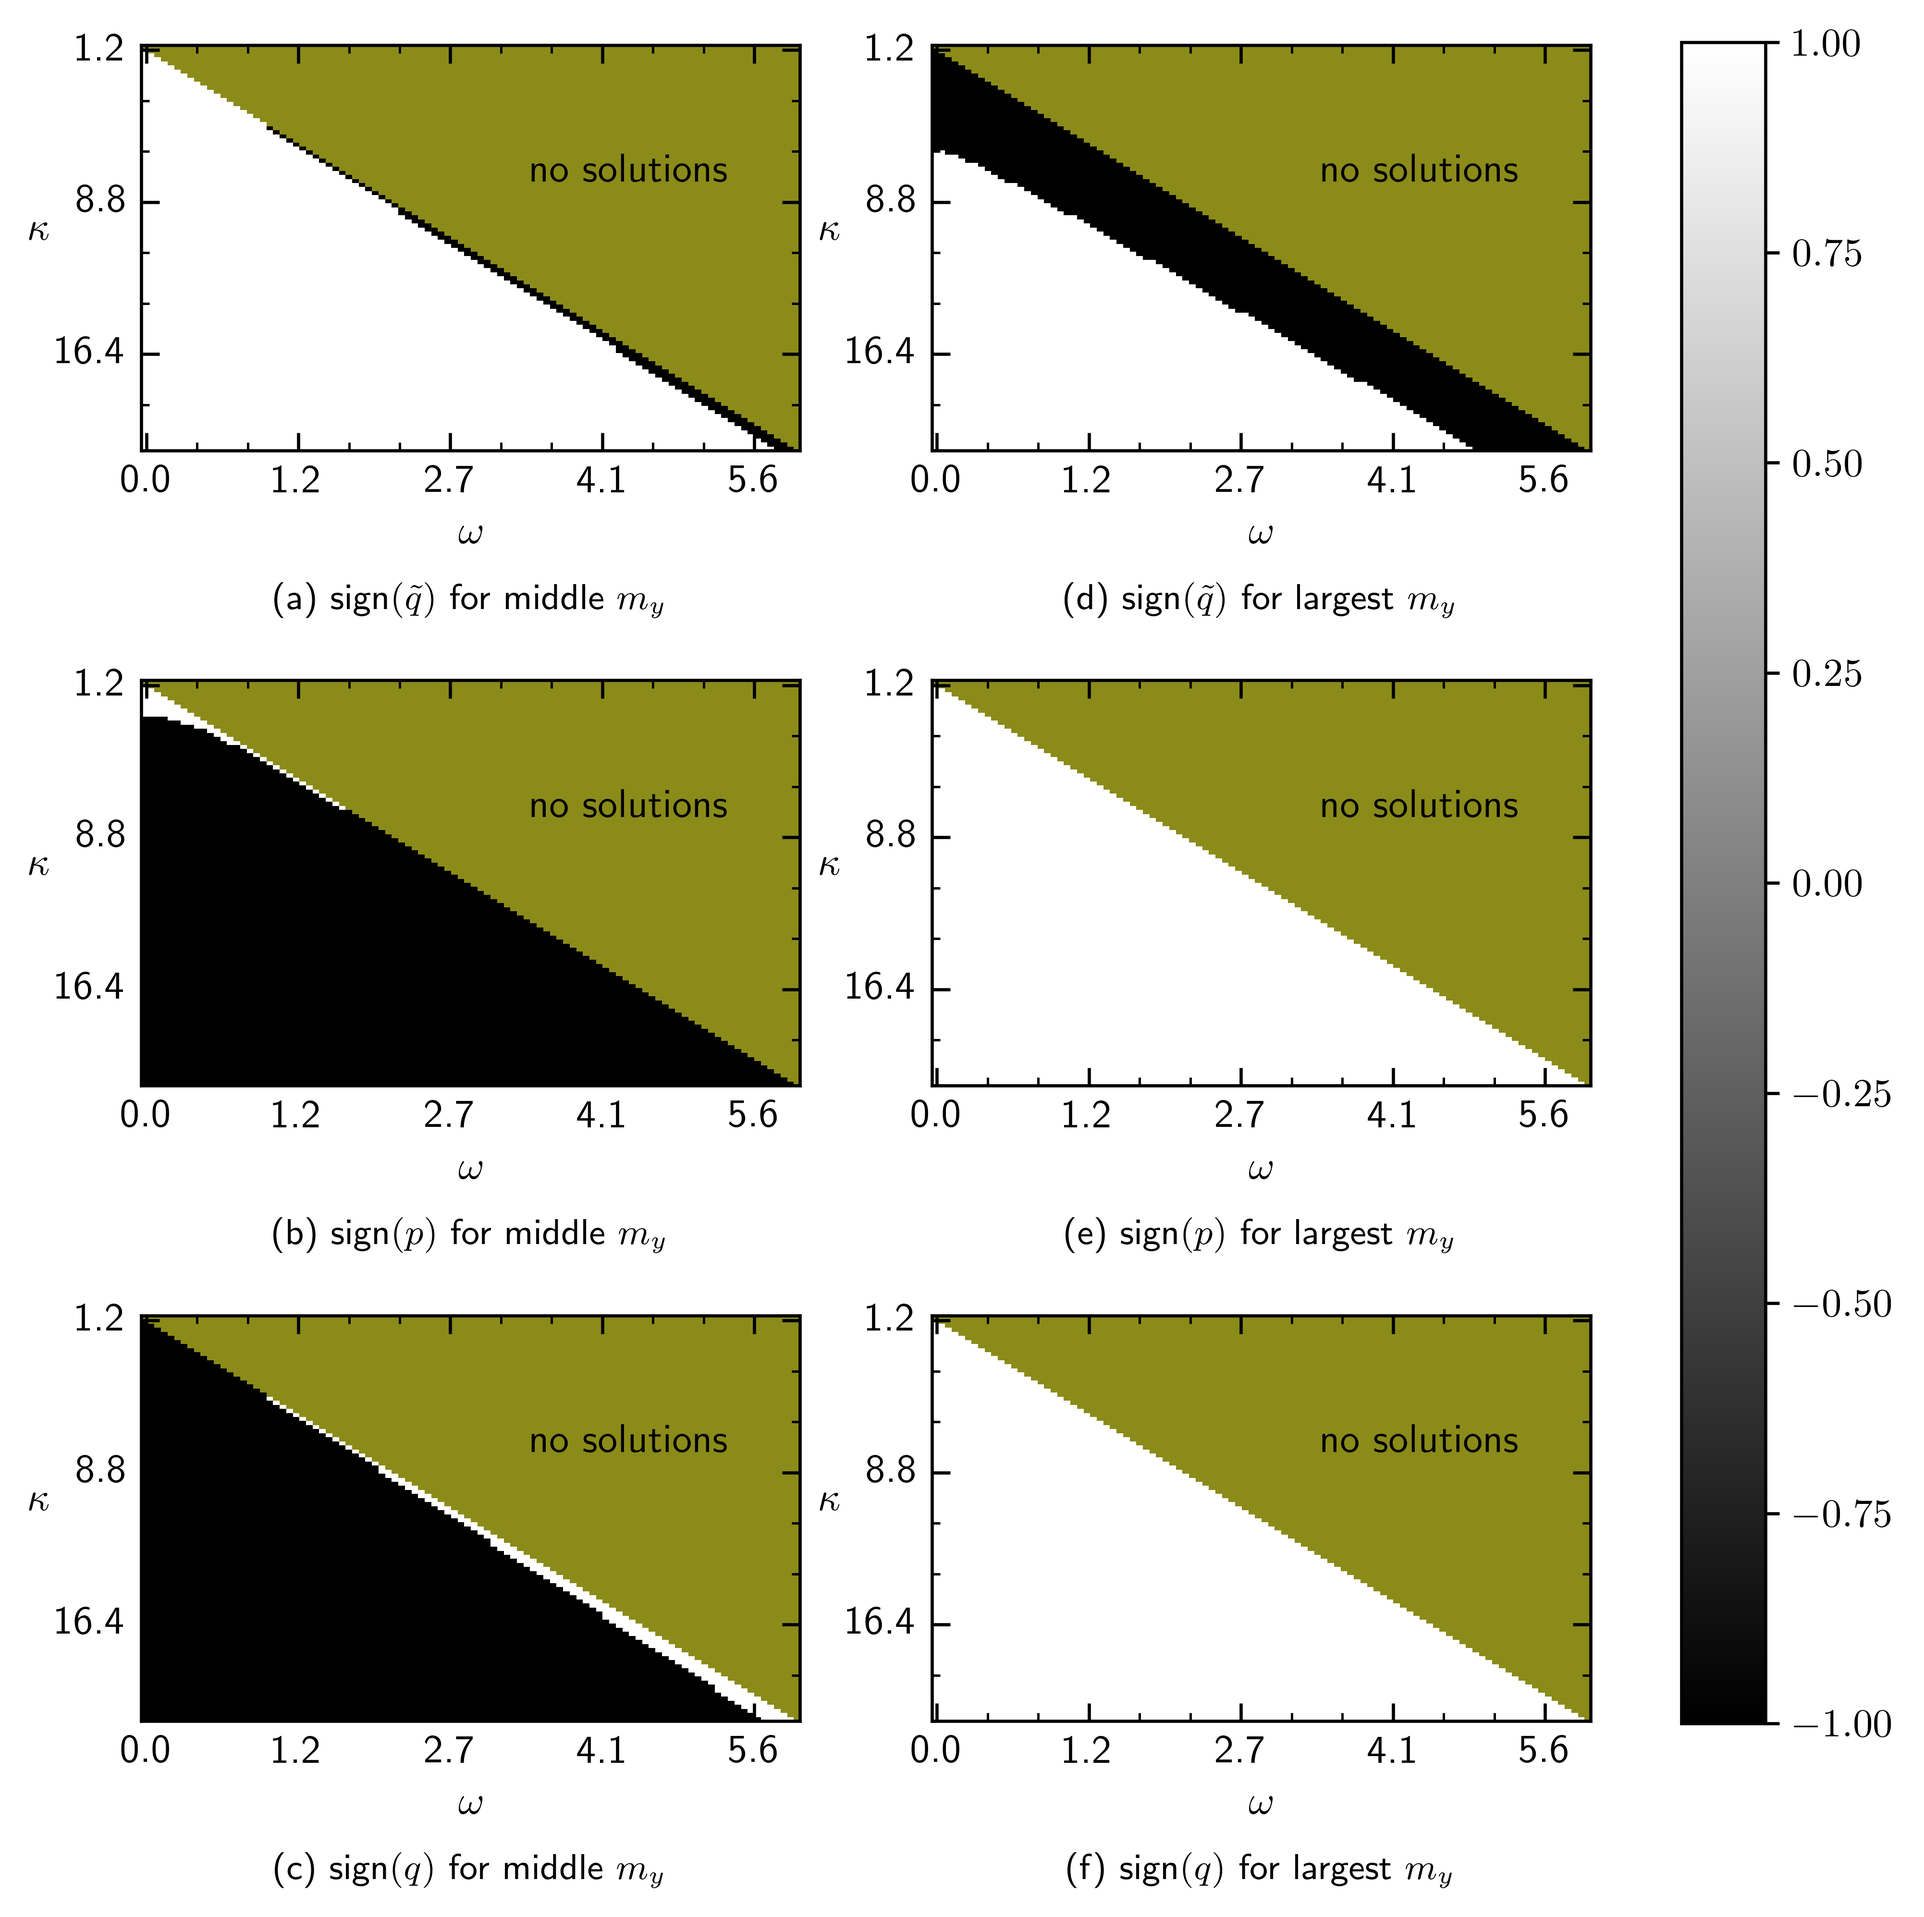
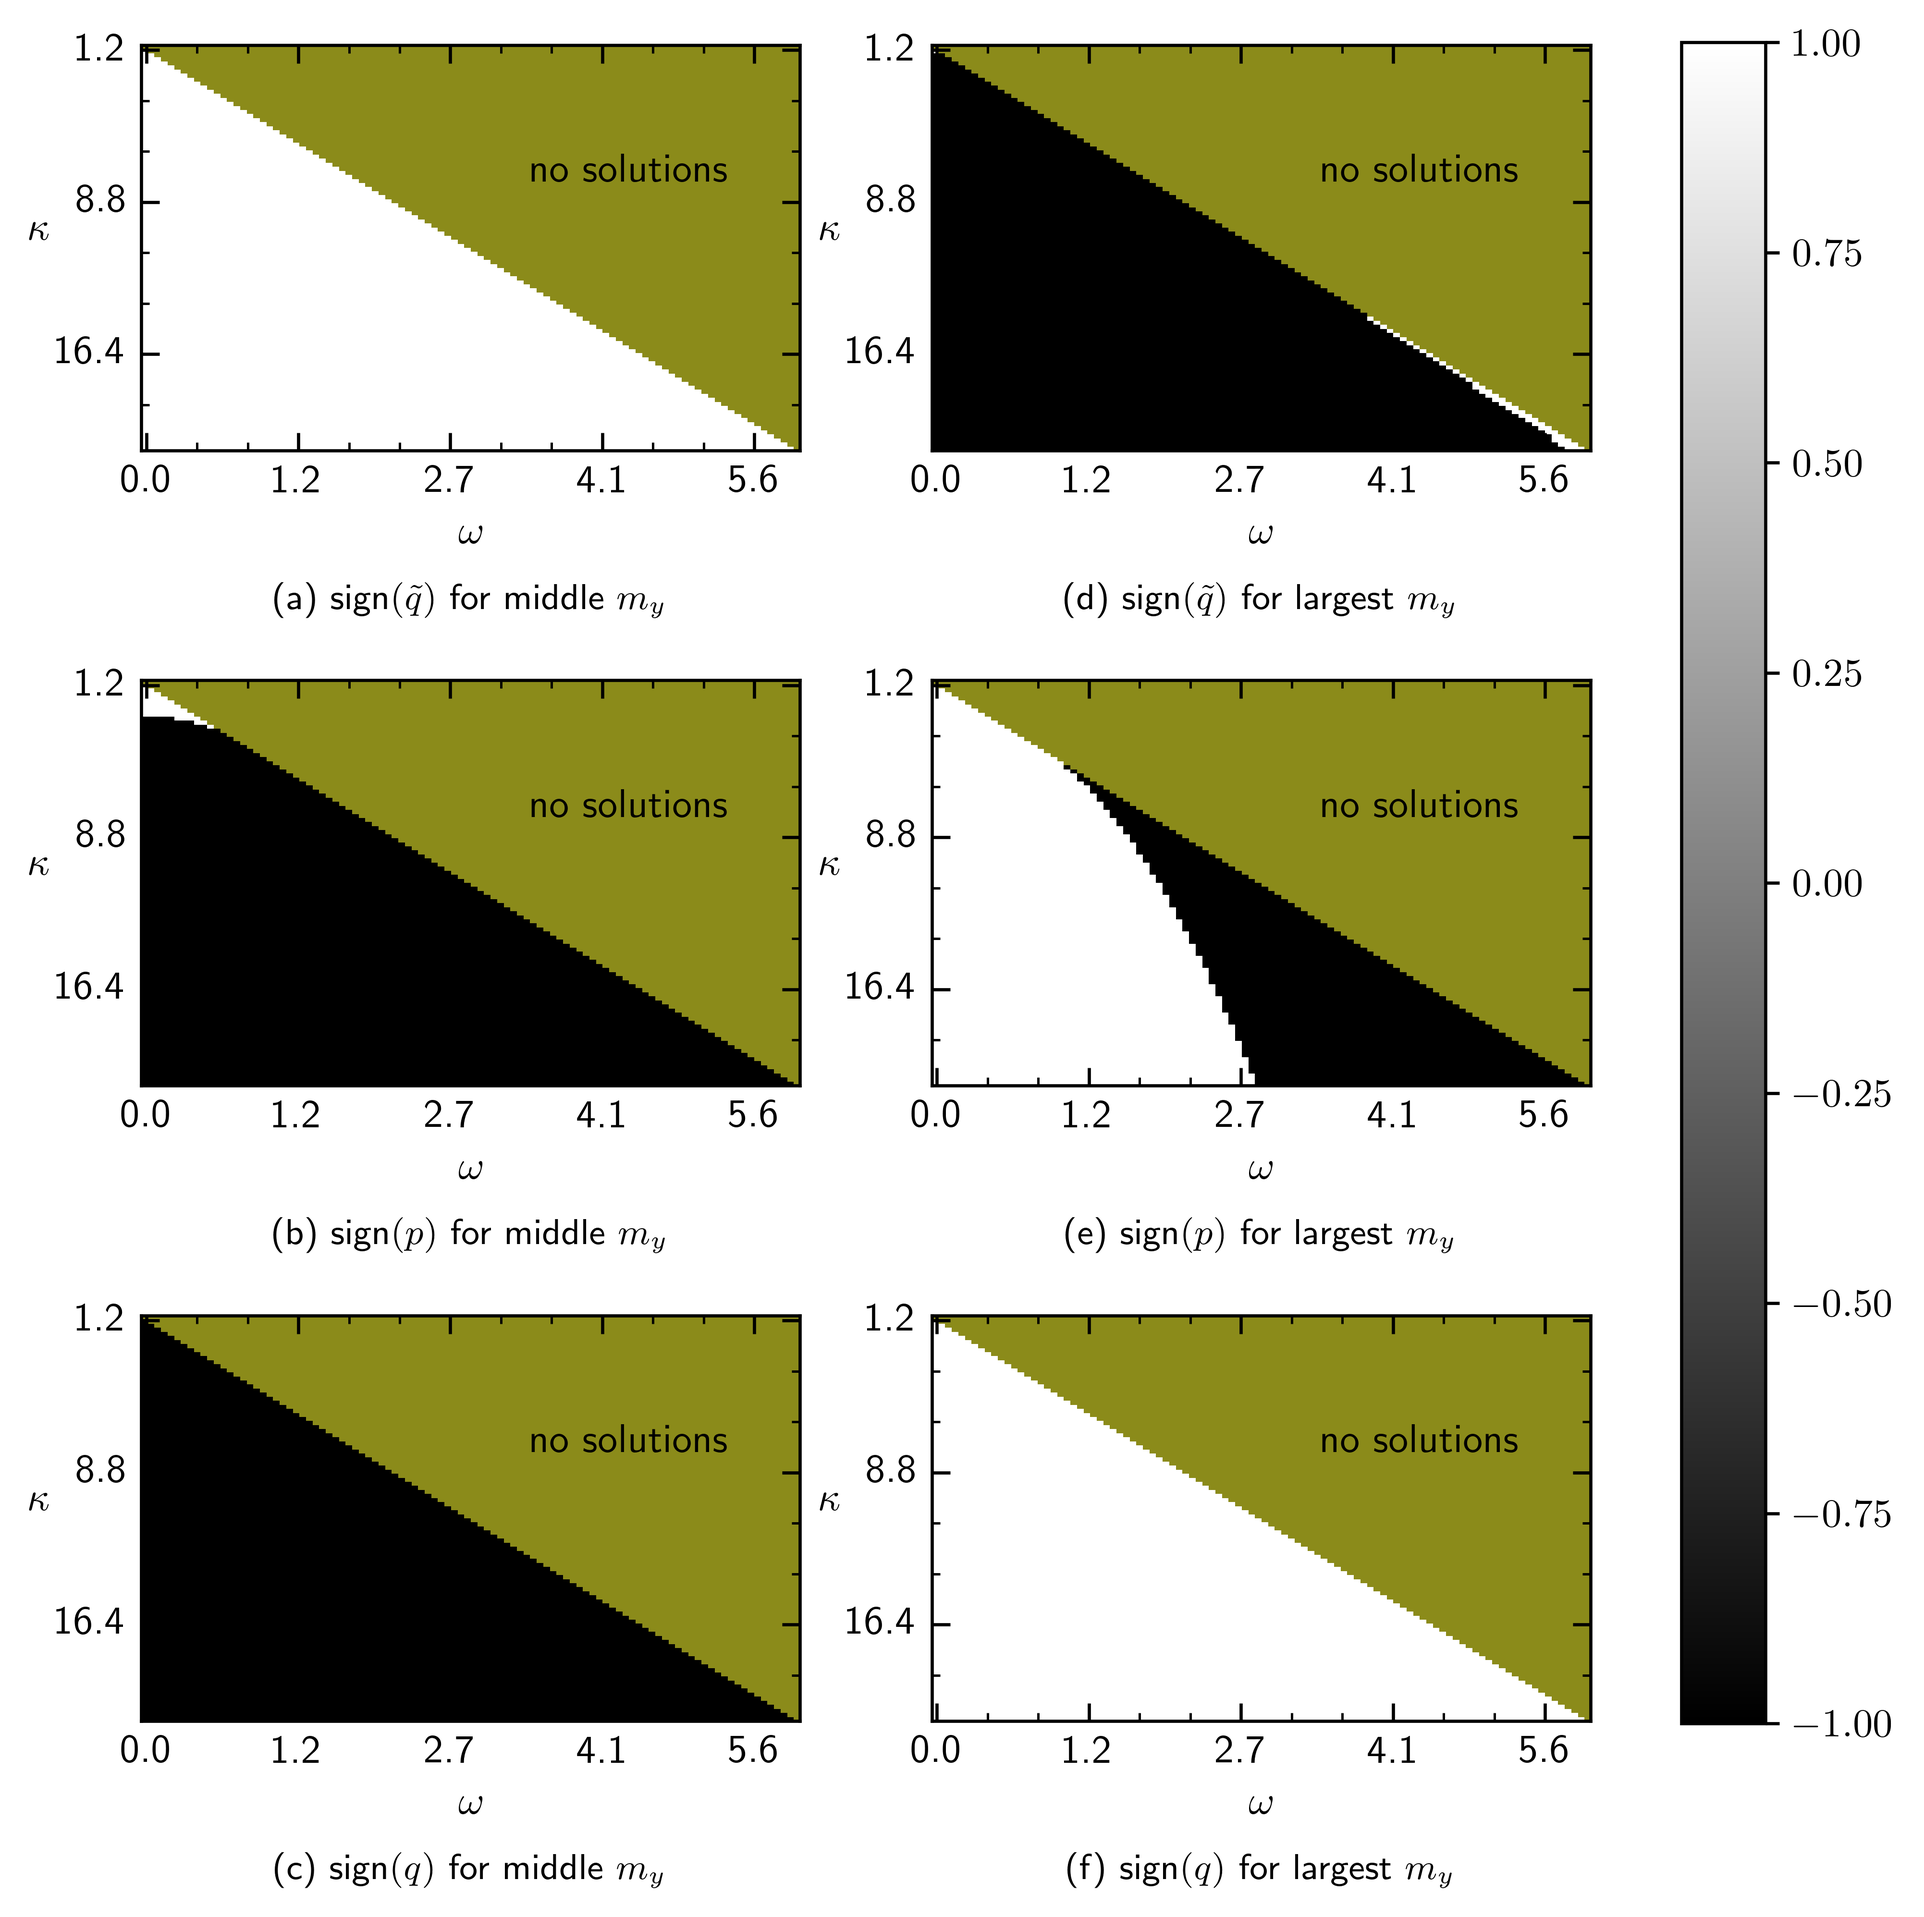
eig update

diff --git a/protocol.tex b/protocol.tex
@@ -800,7 +800,7 @@ The linear expansion thus reads
          \delta m_z
     \end{array}\right)=&\left( \begin{array}{ccc}
         -\Gamma\,A-y^2+y&  0 & 0\\
-        0 & -\Gamma\,A-3\,y^2+4\,y-1 & \sqrt{2}\,\frac{\Gamma}{\tilde{\kappa}}\,(y-1)\\
+        0 & -\Gamma\,A-y^2+y & \sqrt{2}\,\frac{\Gamma}{\tilde{\kappa}}\,(y-1)\\
         0 &  -\sqrt{2}\,\frac{\Gamma}{\tilde{\kappa}}\,(2\,y-1) & -2\,\frac{\Gamma^2}{\tilde{\kappa}^2}
     \end{array} \right)\,\left(\begin{array}{c}
          \delta m_x\\
@@ -814,7 +814,7 @@ The eigenvalues of this matrix are
 \end{align*}
 and the solutions of the equation
 \begin{align*}
-    t^2+\left( 2\,\frac{\Gamma^2}{\tilde{\kappa}^2}+\Gamma\,A+3\,y^2-4\,y+1  \right)\,t+2\,\frac{\Gamma^2}{\tilde{\kappa}^2}\,\left( \Gamma\,A+3\,y^2-4\,y+1 \right)+2\,\frac{\Gamma^2}{\tilde{\kappa}^2}\,(2\,y-1)\,(y-1)
+    t^2+\left( 2\,\frac{\Gamma^2}{\tilde{\kappa}^2}+\Gamma\,A+y^2-y  \right)\,t+2\,\frac{\Gamma^2}{\tilde{\kappa}^2}\,\left( \Gamma\,A+y^2-y   \right)+2\,\frac{\Gamma^2}{\tilde{\kappa}^2}\,(2\,y-1)\,(y-1)
 \end{align*}
 Let's get some intuition for what the polynomials involved in these expressions can do. First take a look on the equation for y. The polynomial of third degree can have at most two extrema. The derivative of the equation, which determines $y$, with respect to $y$ reads
 \begin{align*}
@@ -995,7 +995,7 @@ We proceed again by calculating the linear expansion of the differential equatio
          \delta m_z
     \end{array}\right)=&\left( \begin{array}{ccc}
         -\Gamma\,A-y^2+\frac{\tilde{\omega}}{\tilde{\kappa}}\,y&  0 & 0\\
-        0 & -\Gamma\,A-3\,y^2+4\,\frac{\tilde{\omega}}{\tilde{\kappa}}\,y-\frac{\tilde{\omega}^2}{\tilde{\kappa}^2} & \sqrt{2}\,\frac{\Gamma}{\tilde{\kappa}^2}\,(\tilde{\kappa}\,y-\tilde{\omega})\\
+        0 & -\Gamma\,A-y^2+\frac{\tilde{\omega}}{\tilde{\kappa}}\,y & \sqrt{2}\,\frac{\Gamma}{\tilde{\kappa}^2}\,(\tilde{\kappa}\,y-\tilde{\omega})\\
         0 &  -\sqrt{2}\,\frac{\Gamma}{\tilde{\kappa}^2}\,(2\tilde{\kappa}\,y-\tilde{\omega}) & -2\,\frac{\Gamma^2}{\tilde{\kappa}^2}
     \end{array} \right)\,\left(\begin{array}{c}
          \delta m_x\\
@@ -1007,7 +1007,7 @@ For the analysis of the sign of the eigenvalues we are free to multiply the matr
 \begin{align*}
     \mathcal{A}=\left( \begin{array}{ccc}
         -\Gamma\tilde{A}-\tilde{y}^2+\tilde{y}&  0 & 0\\
-        0 & -\Gamma\tilde{A}-3\,\tilde{y}^2+4\,\tilde{y}-1 & \sqrt{2}\,\Gamma/\tilde{\kappa}\,(\tilde{y}-\frac{\tilde{\kappa}}{\tilde{\omega}})\\
+        0 & -\Gamma\tilde{A}-\tilde{y}^2+\tilde{y}& \sqrt{2}\,\Gamma/\tilde{\kappa}\,(\tilde{y}-\frac{\tilde{\kappa}}{\tilde{\omega}})\\
         0 &  -\sqrt{2}\,\Gamma/\tilde{\kappa}\,(2\,\tilde{y}-\frac{\tilde{\kappa}}{\tilde{\omega}}) & -2\,\frac{\Gamma^2}{\tilde{\omega}^2}
     \end{array} \right)
 \end{align*}
@@ -1150,15 +1150,34 @@ the total collective spin reaches it's boundies in this limit as well. The $m_y=
     F(y)=&-\half\,\Gamma\omega-(\half\,\Gamma\,(\Gamma+\gamma-\kappa)+\omega^2)\,y\\=&-\kappa^2\,y^3+2\,\kappa\omega\,y^2
 \end{align*}
 was used in order to avoid unnecessary pols.\newpage
+The other two eigenvalues of the linearization matrix 
+\begin{align*}
+    \Gamma\,\mathcal{A}=&\left( \begin{array}{c c c}
+        -\half\,\Gamma\,(\Gamma+\gamma-\kappa)-\kappa^2\,y^2
+        +\omega\kappa\,y&0&0\\
+        0&-\half\,\Gamma\,(\Gamma+\gamma-\kappa)-\kappa^2\,y^2
+        +\omega\kappa\,y&\Gamma\,(\kappa\,y-\omega)\\
+        0&-\Gamma\,(2\kappa\,y-\omega)&-\Gamma^2
+    \end{array}  \right)
+\end{align*}
 \begin{wrapfigure}[26]{l}{0pt}
     \includegraphics{pictures/lam2_anal_s.png}
     \vspace*{-2cm}\caption{Heatmap for the possible fixed point values for the small $m_y$-solution. (a) depicts $m_y$, whereas (b) depicts $|m|$-values.}
     \label{fig:sign_lam23_s}
 \end{wrapfigure}
-The other two eigenvalues are defined through the solution of the following equation
+are, as discussed above, the t-roots of the expression
+are, as discussed above, the t-roots of the expression
 \begin{align*}
-    0=&t^2+\left( 2\,\frac{\Gamma^2}{\tilde{\omega}^2}+\Gamma\,\tilde{A}+3\,\tilde{y}^2-4\,\tilde{y}+1  \right)\,t\\
-    &+2\,\frac{\Gamma^2}{\tilde{\omega}^2}\,\left( \Gamma\,\tilde{A}+3\,\tilde{y}^2-4\,\tilde{y}+1 \right)\\
+    0=&t^2+\left( \Gamma^2 +\half\,\Gamma\,(\Gamma+\gamma-\kappa)+\kappa^2\,y^2
+    -\omega\kappa\,y\right)\,t\\
+    &+\Gamma^2\,(\half\,\Gamma\,(\Gamma+\gamma-\kappa)+\kappa^2\,y^2-\omega\kappa\,y)\\
+    &+\Gamma^2\,(\kappa\,y-\omega)\,(2\,\kappa\,y-\omega)
+    &=\vcentcolon t^2+p\,t+q
+\end{align*}
+or
+\begin{align*}
+    0=&t^2+\left( 2\,\frac{\Gamma^2}{\tilde{\omega}^2}+\Gamma\tilde{A}+\tilde{y}^2-\tilde{y} \right)\,t\\
+    &+2\,\frac{\Gamma^2}{\tilde{\omega}^2}\,\left( \Gamma\tilde{A}+\tilde{y}^2-\tilde{y} \right)\\
     &+2\,\frac{\Gamma^2}{\tilde{\kappa}^2}\,(2\,\tilde{y}-\frac{\tilde{\kappa}}{\tilde{\omega}})\,(\tilde{y}-\frac{\tilde{\kappa}}{\tilde{\omega}})\\
     &=\vcentcolon t^2+p\,t+q
 \end{align*}
